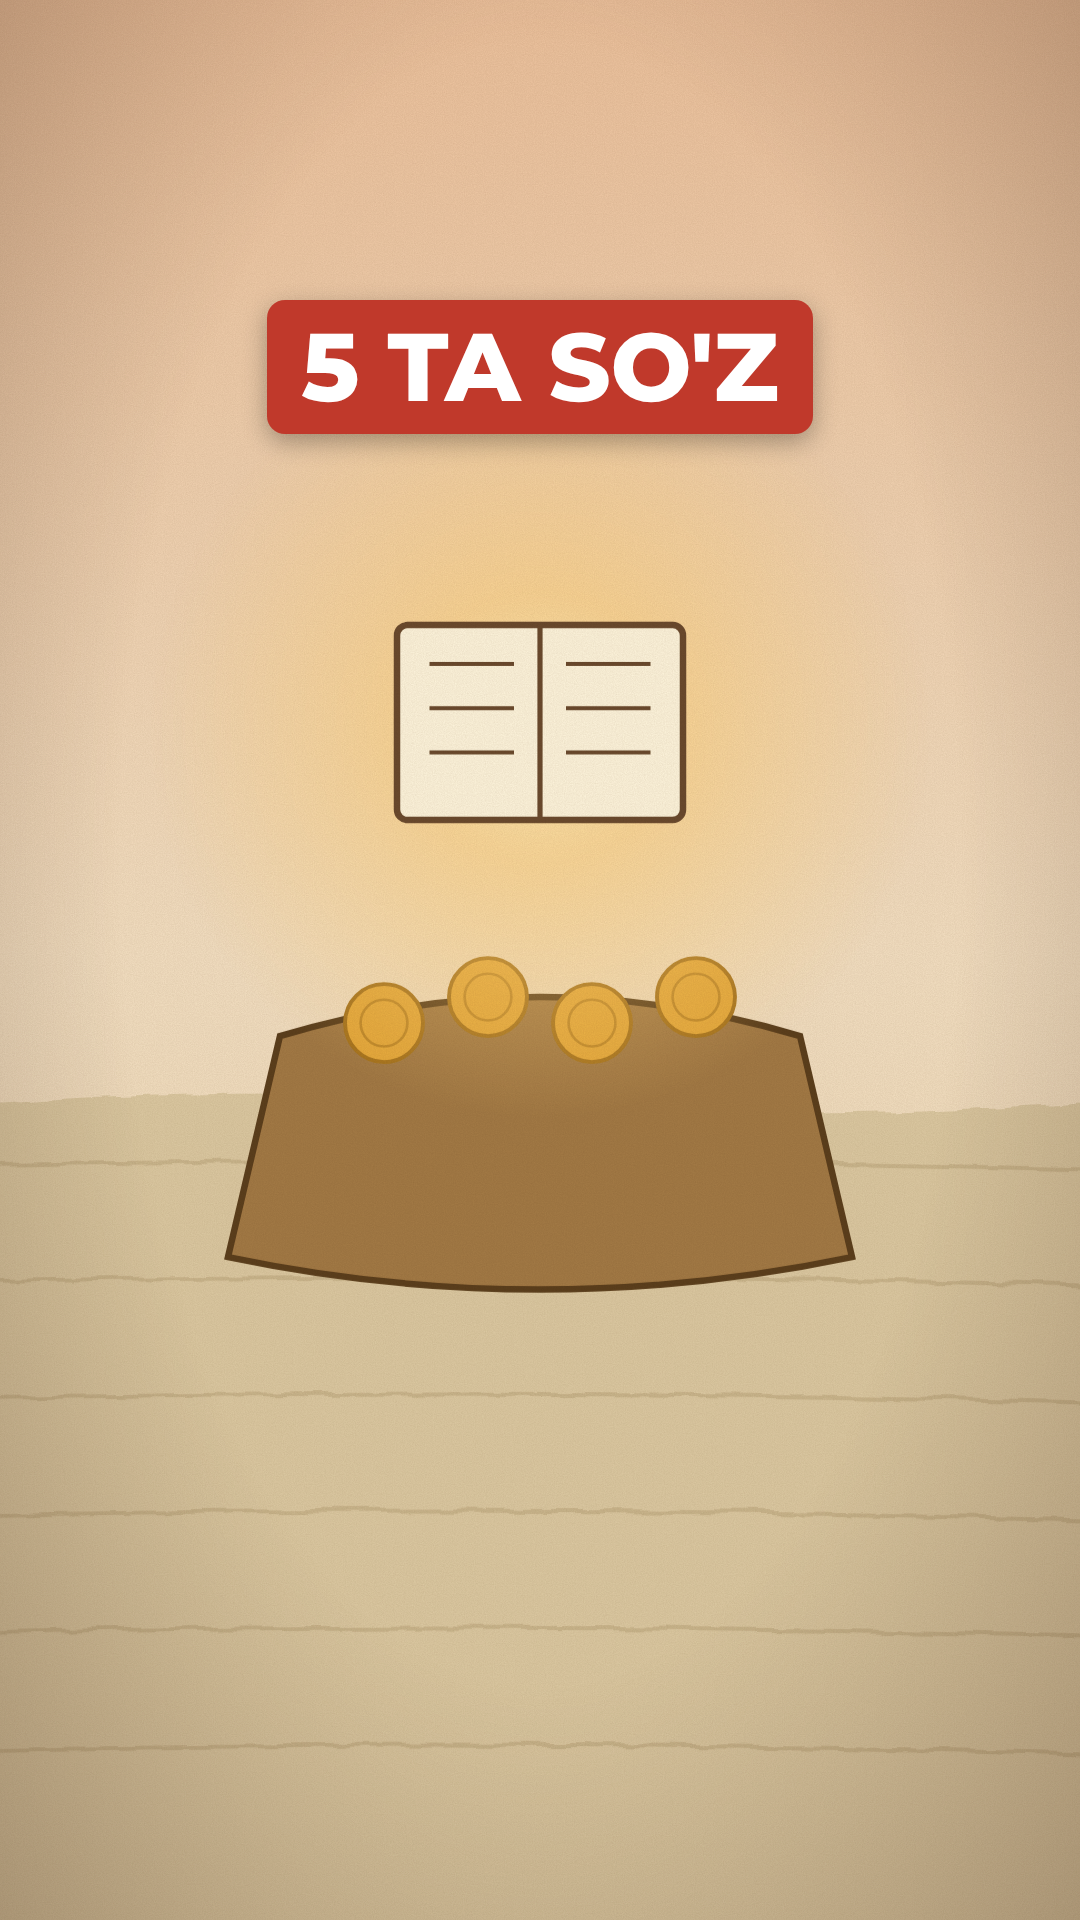
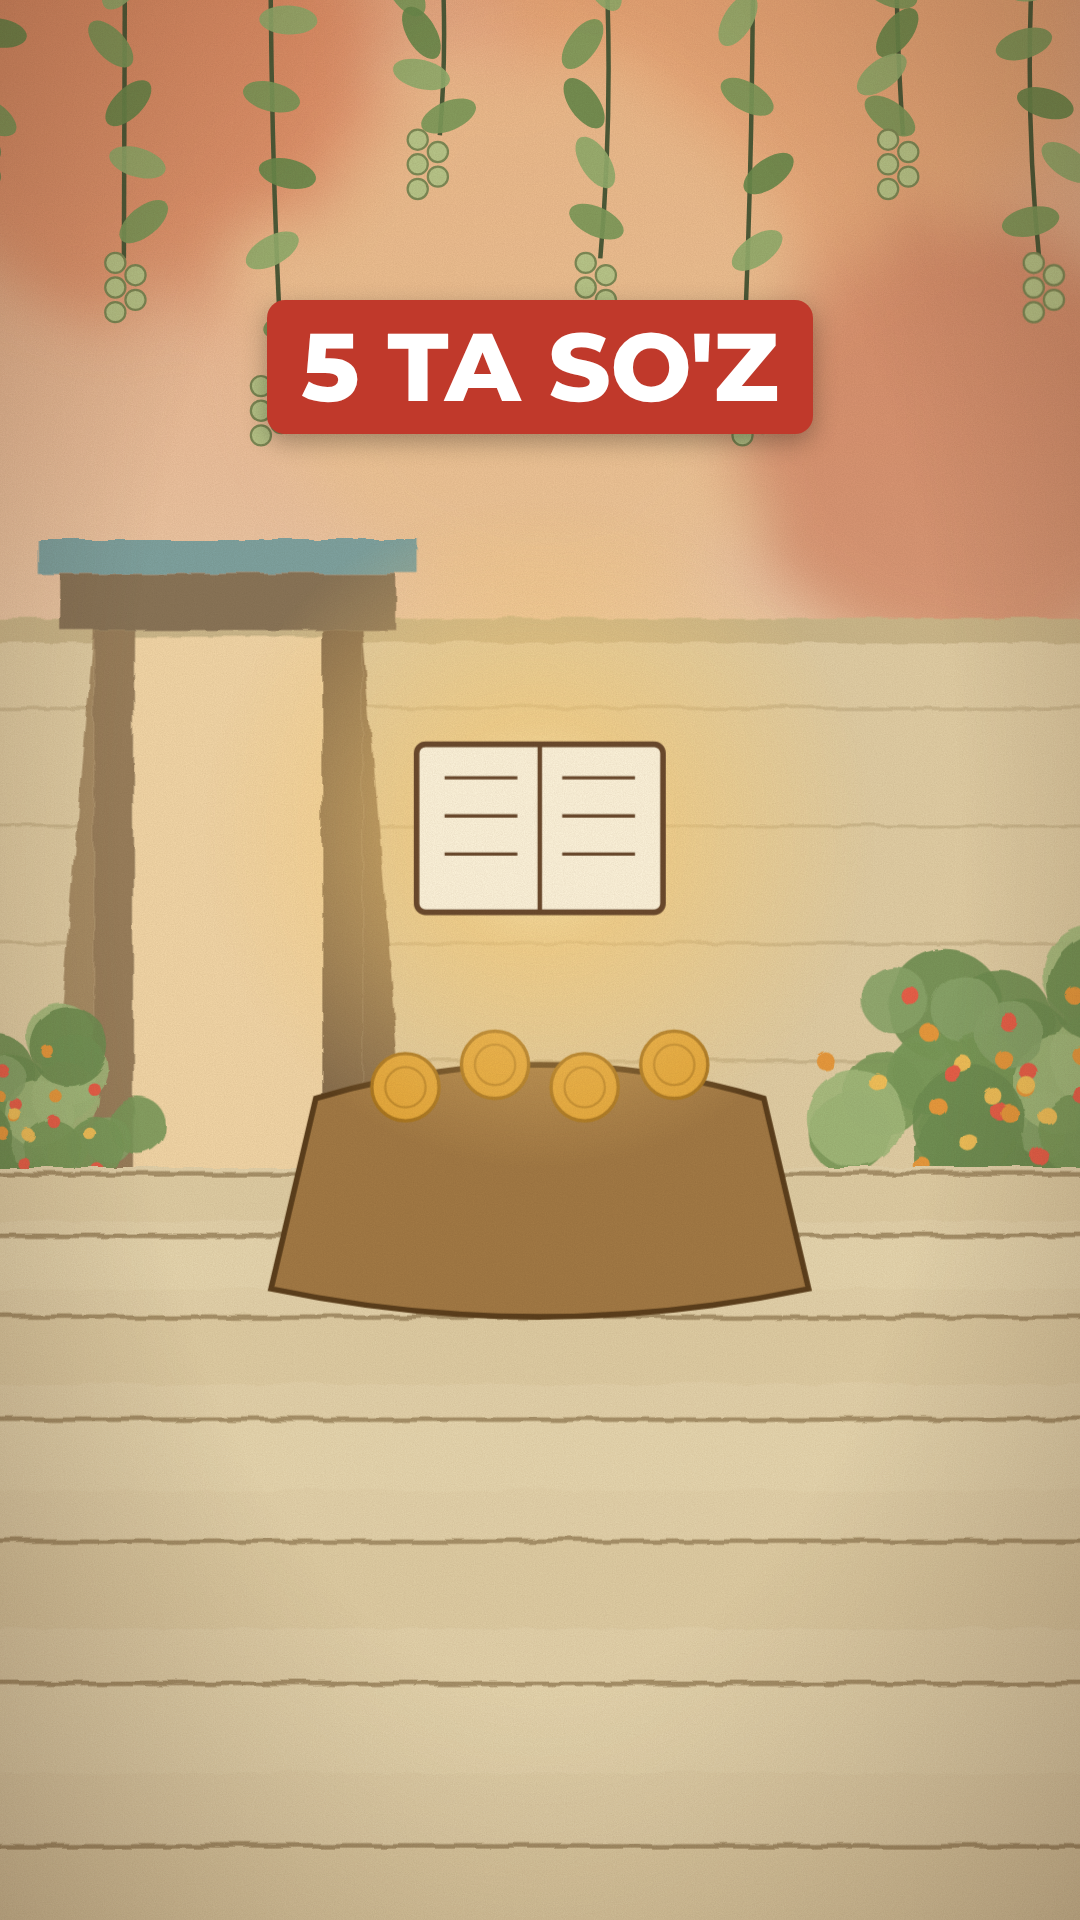
LecStory: двор, одетые фигуры, узбекские субтитры
Claude-Session: https://claude.ai/code/session_016ssCvhGqsaU6G9Y1JqC6kV

diff --git a/reels/src/LecStory.tsx b/reels/src/LecStory.tsx
@@ -9,21 +9,43 @@ export type StoryProps = {id: string; dur: number; title: string; scenes: {a: nu
 const FPS = 30, INK = '#33403a', SIL = '#3f4a45', GLOW = '#ffd27a', GOLDC = '#e6a93a', CREAMC = '#f6ecd8';
 const R = (t: number, a: number, b: number) => ease(tm(t, a, b));
 
-/* ---------- фон ---------- */
-const Paper: React.FC<{v?: 'day' | 'dusk' | 'night'; children?: React.ReactNode}> = ({v = 'day', children}) => {
-  const top = v === 'day' ? '#e9b48c' : v === 'dusk' ? '#c98f7c' : '#7d6f86', mid = v === 'night' ? '#d9b08e' : '#f3dfc2';
+/* ---------- фон: двор, как в референсе ---------- */
+const Vine: React.FC<{x: number; len: number; seed: number}> = ({x, len, seed}) => {
+  const rr = (k: number) => { const v = Math.sin((seed + 1) * 91.7 + k * 12.9) * 4375.85; return v - Math.floor(v); };
+  return (<g>
+    <path d={`M${x} -20 Q${x + (rr(1) - 0.5) * 50} ${len * 0.5} ${x + (rr(2) - 0.5) * 30} ${len}`} stroke="#4c5a38" strokeWidth={4} fill="none" />
+    {Array.from({length: 7}, (_, k) => { const yy = 20 + (k / 7) * len, xx = x + (rr(k) - 0.5) * 44; return <ellipse key={k} cx={xx} cy={yy} rx={26} ry={13} transform={`rotate(${(rr(k + 5) - 0.5) * 120} ${xx} ${yy})`} fill={['#7d9a5a', '#6a8a4c', '#93ad6c'][k % 3]} opacity={0.92} />; })}
+    {[0, 1, 2, 3, 4].map((k) => <circle key={`g${k}`} cx={x + ((k % 2) - 0.5) * 18} cy={len + 4 + k * 11} r={9} fill="#b8c68a" stroke="#7d8a56" strokeWidth={2} />)}
+  </g>);
+};
+const Bush: React.FC<{x: number; y: number; s?: number; flowers?: boolean}> = ({x, y, s = 1, flowers = true}) => (<g transform={`translate(${x} ${y}) scale(${s})`}>
+  {Array.from({length: 38}, (_, k) => { const a = (k * 2.399) % 6.283, r = 20 + (k * 11) % 120; return <circle key={k} cx={Math.cos(a) * r * 1.15} cy={-70 + Math.sin(a) * r * 0.75} r={26 + (k % 4) * 6} fill={['#8aa56a', '#7a9a5a', '#a3ba7c', '#6f8f52'][k % 4]} opacity={0.9} />; })}
+  {flowers && Array.from({length: 26}, (_, k) => { const a = (k * 1.9) % 6.283, r = 10 + (k * 17) % 130; return <circle key={`f${k}`} cx={Math.cos(a) * r * 1.1} cy={-70 + Math.sin(a) * r * 0.7} r={7} fill={['#e89a3c', '#e8604a', '#f1c15a'][k % 3]} />; })}
+</g>);
+const Paper: React.FC<{v?: 'day' | 'dusk' | 'night'; yard?: boolean; children?: React.ReactNode}> = ({v = 'day', yard = true, children}) => {
+  const top = v === 'day' ? '#e6a17a' : v === 'dusk' ? '#c47f6e' : '#6f6283', mid = v === 'night' ? '#cfa585' : '#f1d9b8', wall = v === 'night' ? '#b7a387' : '#e2cfa6', step = v === 'night' ? '#b9a98c' : '#e4d3ac';
   return (<g>
     <defs>
-      <linearGradient id="sky" x1="0" y1="0" x2="0" y2="1"><stop offset="0" stopColor={top} /><stop offset="0.55" stopColor={mid} /><stop offset="1" stopColor="#e8d6b2" /></linearGradient>
+      <linearGradient id="sky" x1="0" y1="0" x2="0" y2="1"><stop offset="0" stopColor={top} /><stop offset="0.5" stopColor={mid} /><stop offset="1" stopColor="#e8d6b2" /></linearGradient>
       <radialGradient id="gl"><stop offset="0" stopColor="#fff3c4" stopOpacity="0.95" /><stop offset="0.35" stopColor={GLOW} stopOpacity="0.55" /><stop offset="1" stopColor={GLOW} stopOpacity="0" /></radialGradient>
-      <filter id="wob" x="-5%" y="-5%" width="110%" height="110%"><feTurbulence baseFrequency="0.018" numOctaves="2" seed="4" result="n" /><feDisplacementMap in="SourceGraphic" in2="n" scale="7" /></filter>
+      <filter id="wob" x="-5%" y="-5%" width="110%" height="110%"><feTurbulence baseFrequency="0.02" numOctaves="2" seed="4" result="n" /><feDisplacementMap in="SourceGraphic" in2="n" scale="6" /></filter>
+      <filter id="blot" x="-30%" y="-30%" width="160%" height="160%"><feTurbulence baseFrequency="0.012" numOctaves="3" seed="9" result="n" /><feDisplacementMap in="SourceGraphic" in2="n" scale="90" result="d" /><feGaussianBlur in="d" stdDeviation="26" /></filter>
       <filter id="paper"><feTurbulence type="fractalNoise" baseFrequency="0.9" numOctaves="3" seed="2" /><feColorMatrix values="0 0 0 0 0.35  0 0 0 0 0.27  0 0 0 0 0.18  0 0 0 0.55 0" /></filter>
     </defs>
     <rect width={1080} height={1920} fill="url(#sky)" />
-    <g filter="url(#wob)">
-      <path d="M0 1180 Q300 1150 540 1170 T1080 1160 L1080 1920 L0 1920Z" fill="#dcc9a2" />
-      {[0, 1, 2, 3, 4, 5].map((i) => <path key={i} d={`M${-20} ${1220 + i * 90} Q540 ${1205 + i * 90} 1100 ${1225 + i * 90}`} stroke="#bba67c" strokeWidth={3} fill="none" opacity={0.55} />)}
-    </g>
+    <g filter="url(#blot)" opacity={0.5}>{[[160, 180, 220, '#d9774e'], [760, 120, 260, '#e9a46c'], [520, 420, 240, '#f0c791'], [900, 520, 200, '#c76a4a']].map(([cx, cy, r, c], i) => <circle key={i} cx={cx as number} cy={cy as number} r={r as number} fill={c as string} />)}</g>
+    {yard && (<g filter="url(#wob)">
+      <rect x={-20} y={700} width={1120} height={490} fill={wall} />
+      <rect x={-20} y={690} width={1120} height={22} fill="#cdb98c" />
+      {[0, 1, 2, 3].map((k) => <path key={k} d={`M-20 ${770 + k * 105} L1100 ${770 + k * 105}`} stroke="#bba67c" strokeWidth={3} opacity={0.5} />)}
+      <rect x={90} y={620} width={340} height={30} fill="#7fa3a1" /><rect x={110} y={650} width={300} height={50} fill="#8a7458" />
+      <rect x={140} y={700} width={36} height={490} fill="#9a7f5c" /><rect x={344} y={700} width={36} height={490} fill="#8a7050" /><rect x={176} y={706} width={168} height={484} fill={v === 'night' ? '#d8bd92' : '#f3d7a8'} />
+      <path d="M140 700 L100 1180 L140 1190Z" fill="#a98e66" /><path d="M380 700 L420 1180 L380 1190Z" fill="#8a7050" />
+      <Bush x={60} y={1190} s={0.8} /><Bush x={960} y={1190} s={1.15} />
+      <rect x={-20} y={1180} width={1120} height={760} fill={step} />
+      {Array.from({length: 11}, (_, k) => { const yy = 1186 + k * (46 + k * 9); return <g key={k}><rect x={-20} y={yy} width={1120} height={k % 2 ? 40 + k * 8 : 42 + k * 9} fill={k % 2 ? '#e9dab4' : '#dccaa0'} opacity={0.55} /><path d={`M-20 ${yy} L1100 ${yy}`} stroke="#a8926a" strokeWidth={4} /></g>; })}
+    </g>)}
+    {[40, 170, 300, 440, 590, 730, 860, 990].map((vx, i) => <Vine key={i} x={vx} len={260 + (i % 3) * 110} seed={i} />)}
     {children}
   </g>);
 };
@@ -32,23 +54,28 @@ const Overlay: React.FC = () => (<>
   <AbsoluteFill style={{background: 'radial-gradient(ellipse at 50% 45%, rgba(0,0,0,0) 55%, rgba(60,35,20,.28) 100%)'}} />
 </>);
 
-/* ---------- фигуры ---------- */
-const Person: React.FC<{x: number; y: number; s?: number; kind?: 'man' | 'woman' | 'boy'; sit?: boolean; walk?: number; c?: string; flip?: boolean}> = ({x, y, s = 1, kind = 'man', sit, walk = 0, c = SIL, flip}) => {
-  const h = kind === 'boy' ? 0.7 : 1, sw = Math.sin(walk * 9) * 14;
-  return (<g transform={`translate(${x} ${y}) scale(${(flip ? -1 : 1) * s} ${s})`} fill={c}>
-    {kind === 'woman' ? (<g>
-      <path d={`M-42 0 Q-30 ${-190} 0 ${-230} Q30 ${-190} 42 0Z`} />
-      <path d={`M-34 -235 Q0 ${-300} 34 -235 Q40 -190 0 -175 Q-40 -190 -34 -235Z`} fill="#2f3b4a" />
-    </g>) : sit ? (<g>
-      <rect x={-34} y={-120 * h} width={68} height={110 * h} rx={26} />
-      <rect x={-56} y={-26} width={112} height={26} rx={13} />
-      <circle cx={0} cy={-150 * h} r={26 * h} />
-    </g>) : (<g>
-      <rect x={-22 + sw * 0.4} y={-84 * h} width={18} height={84 * h} rx={8} transform={`rotate(${sw * 0.6} -13 ${-84 * h})`} />
-      <rect x={4 - sw * 0.4} y={-84 * h} width={18} height={84 * h} rx={8} transform={`rotate(${-sw * 0.6} 13 ${-84 * h})`} />
-      <rect x={-34} y={-190 * h} width={68} height={116 * h} rx={28} />
-      <circle cx={0} cy={-218 * h} r={26 * h} />
-    </g>)}
+/* ---------- фигуры: одетые, без лиц, с тенью ---------- */
+const Person: React.FC<{x: number; y: number; s?: number; kind?: 'man' | 'woman' | 'boy'; sit?: boolean; walk?: number; c?: string; flip?: boolean; robe?: string}> = ({x, y, s = 1, kind = 'man', sit, walk = 0, flip, robe}) => {
+  const sw = Math.sin(walk * 8) * 12, bob = Math.abs(Math.sin(walk * 8)) * 5, skin = '#d8b08a';
+  const rb = robe ?? (kind === 'woman' ? '#4f6d8a' : kind === 'boy' ? '#5f8a86' : '#6f8a62');
+  return (<g transform={`translate(${x} ${y}) scale(${(flip ? -1 : 1) * s} ${s})`}>
+    <path d={`M-40 6 L${150 + (sit ? 40 : 0)} 34 L${120 + (sit ? 40 : 0)} 52 L-60 18Z`} fill="rgba(70,45,25,.2)" />
+    <g transform={`translate(0 ${-bob})`}>
+      {kind === 'woman' ? (<g>
+        <path d={`M-48 0 Q-46 -150 -22 -214 L22 -214 Q46 -150 48 0Z`} fill={rb} /><path d="M-48 0 Q-46 -150 -22 -214 L-4 -214 Q-14 -120 -10 0Z" fill="rgba(0,0,0,.1)" />
+        <path d="M-44 -190 Q-50 -296 0 -300 Q50 -296 44 -190 Q40 -150 0 -146 Q-40 -150 -44 -190Z" fill="#f2ede0" /><path d="M-44 -190 Q-50 -296 0 -300 L0 -146 Q-40 -150 -44 -190Z" fill="rgba(0,0,0,.06)" /><ellipse cx={0} cy={-222} rx={21} ry={26} fill={skin} />
+        <rect x={-62} y={-150} width={24} height={86} rx={12} fill={rb} transform={`rotate(${sw * 0.6} -50 -150)`} /><circle cx={-52} cy={-62} r={10} fill={skin} />
+      </g>) : sit ? (<g>
+        <path d="M-70 0 Q-60 -80 -34 -120 L34 -120 Q60 -80 70 0Z" fill={rb} /><rect x={-34} y={-196} width={68} height={86} rx={30} fill={rb} />
+        <ellipse cx={0} cy={-216} rx={26} ry={30} fill={skin} />{kind === 'man' && <ellipse cx={0} cy={-244} rx={36} ry={20} fill="#efe6d2" />}
+      </g>) : (<g>
+        <path d={`M-40 0 L-34 -150 Q0 -170 34 -150 L40 0Z`} fill={rb} /><path d="M-40 0 L-34 -150 L-10 -156 L-14 0Z" fill="rgba(0,0,0,.1)" />
+        <rect x={-62} y={-150} width={22} height={92} rx={11} fill={rb} transform={`rotate(${sw * 0.7} -51 -150)`} /><rect x={40} y={-150} width={22} height={92} rx={11} fill={rb} transform={`rotate(${-sw * 0.7} 51 -150)`} />
+        <ellipse cx={-22 + sw * 0.3} cy={4} rx={20} ry={9} fill="#3a2a1c" /><ellipse cx={22 - sw * 0.3} cy={4} rx={20} ry={9} fill="#3a2a1c" />
+        <rect x={-14} y={-196} width={28} height={44} fill={skin} /><ellipse cx={0} cy={-216} rx={27} ry={31} fill={skin} />
+        {kind === 'man' ? <ellipse cx={0} cy={-246} rx={38} ry={22} fill="#efe6d2" /> : <path d="M-27 -222 Q0 -262 27 -222 Q0 -240 -27 -222Z" fill="#3a2a22" />}
+      </g>)}
+    </g>
   </g>);
 };
 const Glow: React.FC<{x: number; y: number; r: number; a?: number}> = ({x, y, r, a = 1}) => <circle cx={x} cy={y} r={r} fill="url(#gl)" opacity={a} />;
@@ -233,7 +260,7 @@ export const LecStory: React.FC<StoryProps> = (p) => {
     <AbsoluteFill style={{background: '#e8d6b2'}}>
       {cur.map((s, i) => {
         const fin = i === 0 && t < s.a ? 0 : tm(t, s.a - 0.35, s.a + 0.05), z = 1 + 0.045 * ((t - s.a) / (s.b - s.a));
-        return (<svg key={s.k + s.a} width={1080} height={1920} viewBox="0 0 1080 1920" style={{position: 'absolute', left: 0, top: 0, opacity: fin, transformOrigin: '540px 1400px', transform: `scale(${1.3 * Math.max(1, z)})`}}>{SCENES[s.k](t, t - s.a)}</svg>);
+        return (<svg key={s.k + s.a} width={1080} height={1920} viewBox="0 0 1080 1920" style={{position: 'absolute', left: 0, top: 0, opacity: fin, transformOrigin: '540px 1300px', transform: `scale(${1.12 * Math.max(1, z)})`}}>{SCENES[s.k](t, t - s.a)}</svg>);
       })}
       <Overlay />
       <div style={{position: 'absolute', right: 70, top: 262, fontFamily: 'Montserrat, Arial, sans-serif', fontWeight: 800, fontSize: 30, color: INK, opacity: 0.8}}>@mohiyat___</div>
@@ -246,7 +273,7 @@ export const LecStoryCover: React.FC<StoryProps & {scene: string; at: number}> =
   loadFonts();
   return (
     <AbsoluteFill style={{background: '#e8d6b2'}}>
-      <svg width={1080} height={1920} viewBox="0 0 1080 1920" style={{position: 'absolute', left: 0, top: 0}}><g transform="translate(-162 -420) scale(1.3)">{SCENES[p.scene](p.at, 0)}</g></svg>
+      <svg width={1080} height={1920} viewBox="0 0 1080 1920" style={{position: 'absolute', left: 0, top: 0}}><g transform="translate(-65 -156) scale(1.12)">{SCENES[p.scene](p.at, 0)}</g></svg>
       <Overlay />
       <div style={{position: 'absolute', left: 60, right: 60, top: 300, textAlign: 'center'}}>
         <span style={{display: 'inline-block', background: '#c0392b', color: '#fff', fontFamily: 'Montserrat, Arial, sans-serif', fontWeight: 800, fontSize: 96, lineHeight: 1.1, padding: '14px 34px', borderRadius: 18, boxShadow: '0 8px 24px rgba(0,0,0,.3)'}}>{p.title}</span>
